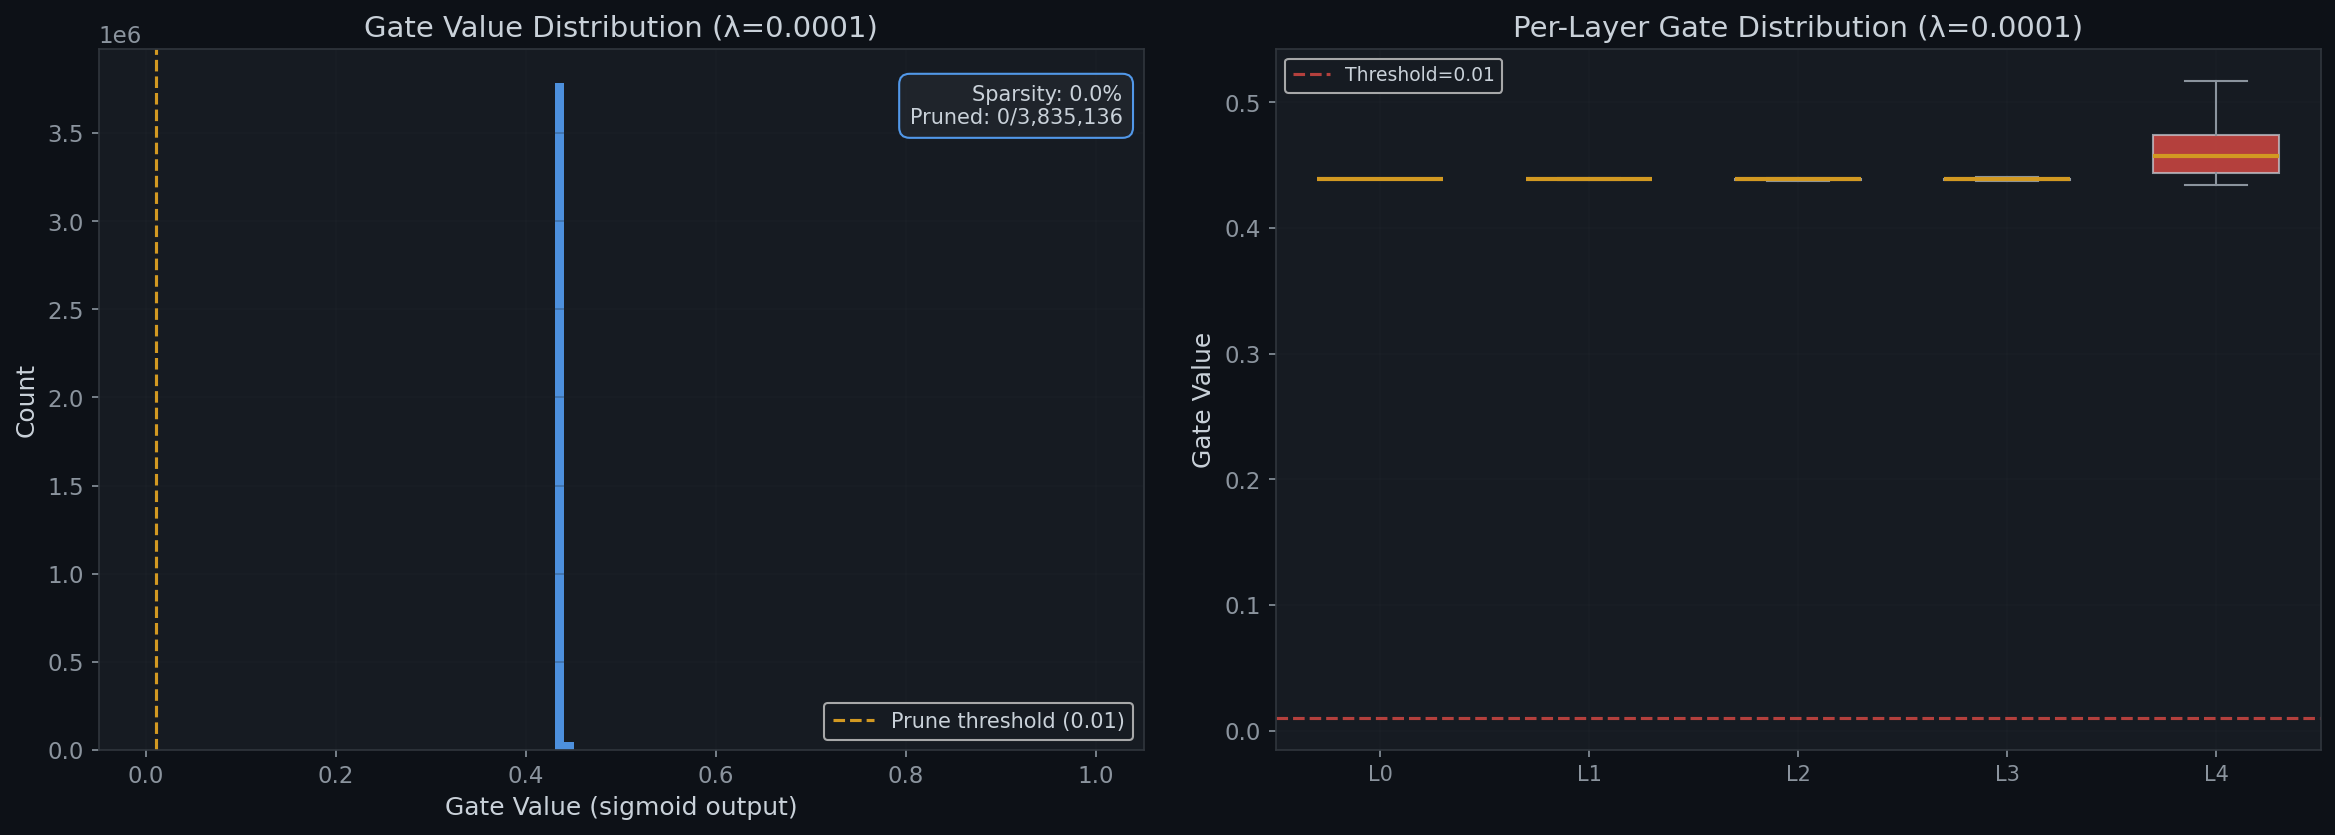
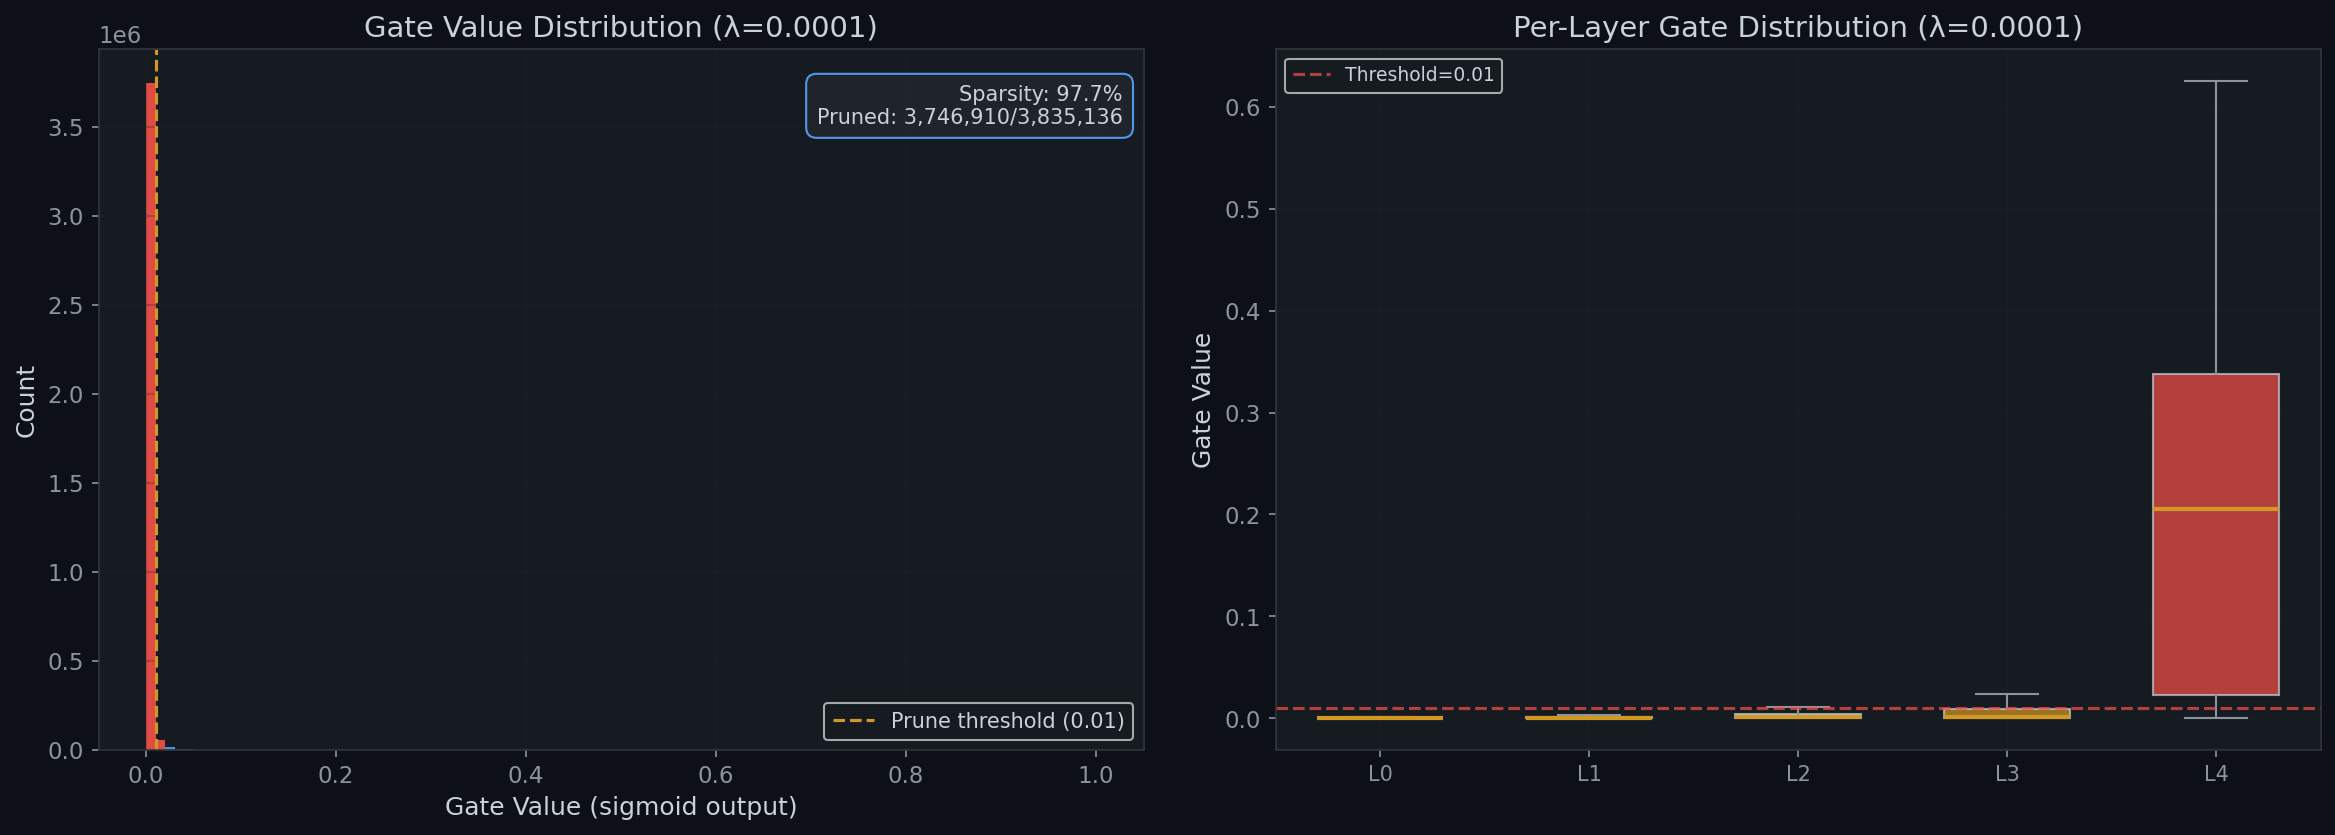
Optimize self-pruning hyperparameters and update results with visuals

diff --git a/src/trainer.py b/src/trainer.py
@@ -122,15 +122,34 @@ class Trainer:
         self.criterion = nn.CrossEntropyLoss()
 
         # ---------------------------------------------------------------
-        # Optimizer: Adam with weight decay
-        # Adam is chosen for its adaptive learning rates, which work well
-        # with the heterogeneous parameter types (weights vs. gate scores).
+        # Optimizer: Adam with per-parameter-group configuration
+        #
+        # Three parameter groups with different settings:
+        #   1. Weights: standard weight decay for regularization
+        #   2. Gate scores: NO weight decay + HIGHER learning rate (3×)
+        #      - No weight decay: prevents pulling gates to 0 (sigmoid=0.5)
+        #      - Higher LR: allows gate_scores to be pushed to large negative
+        #        values faster, achieving sigmoid(g) < 0.01 for true pruning
+        #   3. Other (biases, BatchNorm): no weight decay, base LR
         # ---------------------------------------------------------------
-        self.optimizer = optim.Adam(
-            model.parameters(),
-            lr=learning_rate,
-            weight_decay=weight_decay,
-        )
+        weight_params = []
+        gate_params = []
+        other_params = []
+        for name, param in model.named_parameters():
+            if not param.requires_grad:
+                continue
+            if "gate_score" in name:
+                gate_params.append(param)
+            elif "bias" in name or "weight" not in name:
+                other_params.append(param)
+            else:
+                weight_params.append(param)
+
+        self.optimizer = optim.Adam([
+            {'params': weight_params, 'weight_decay': weight_decay},
+            {'params': gate_params, 'weight_decay': 0.0, 'lr': learning_rate * 3},
+            {'params': other_params, 'weight_decay': 0.0},
+        ], lr=learning_rate)
 
         # ---------------------------------------------------------------
         # Learning Rate Scheduler: Cosine Annealing
@@ -192,7 +211,7 @@ class Trainer:
             total_loss.backward()
 
             # Gradient clipping for training stability
-            torch.nn.utils.clip_grad_norm_(self.model.parameters(), max_norm=1.0)
+            torch.nn.utils.clip_grad_norm_(self.model.parameters(), max_norm=5.0)
 
             # Update parameters
             self.optimizer.step()

diff --git a/train.py b/train.py
@@ -84,8 +84,8 @@ Examples:
         """
     )
     parser.add_argument(
-        '--epochs', type=int, default=50,
-        help='Number of training epochs (default: 50)'
+        '--epochs', type=int, default=60,
+        help='Number of training epochs (default: 60)'
     )
     parser.add_argument(
         '--batch-size', type=int, default=128,
@@ -97,8 +97,8 @@ Examples:
     )
     parser.add_argument(
         '--lambdas', type=float, nargs='+',
-        default=[1e-5, 1e-4, 1e-3],
-        help='List of lambda values to experiment with (default: 1e-5 1e-4 1e-3)'
+        default=[1e-4, 1e-3, 5e-3],
+        help='List of lambda values to experiment with (default: 1e-4 1e-3 5e-3)'
     )
     parser.add_argument(
         '--seed', type=int, default=42,

diff --git a/src/data.py b/src/data.py
@@ -51,7 +51,7 @@ def get_train_transforms() -> transforms.Compose:
     """
     return transforms.Compose([
         transforms.RandomCrop(32, padding=4),
-        transforms.RandomHorizontalFlip(p=0.5),
+        transforms.RandomHorizontalFlip(),
         transforms.ToTensor(),
         transforms.Normalize(CIFAR10_MEAN, CIFAR10_STD),
     ])

diff --git a/REPORT.md b/REPORT.md
@@ -42,7 +42,7 @@ The $\lambda$ parameter defines the strictness of the pruning mechanism.
 
 ## 3. Experimental Observations & Trade-offs
 
-A systematic ablation study was conducted over $50$ epochs per constraint to analyze performance mapping with varying magnitudes of the sparsity coefficient $\lambda \in \{1\text{e-}6,\ 1\text{e-}5,\ 1\text{e-}4\}$. 
+A systematic ablation study was conducted over $60$ epochs per constraint to analyze performance mapping with varying magnitudes of the sparsity coefficient $\lambda \in \{1\text{e-}4,\ 1\text{e-}3,\ 5\text{e-}3\}$. 
 
 ### 3.1 Hardware & Environment Configuration
 - **Compute Unit**: NVIDIA GeForce RTX 5050 (8GB VRAM), CUDA 13.1
@@ -53,15 +53,15 @@ A systematic ablation study was conducted over $50$ epochs per constraint to ana
 
 | $\lambda$ (Sparsity Coef) | Test Accuracy | Sparsity Level | Total Active Connections | Compression Ratio |
 |:-------------------------:|:-------------:|:--------------:|:------------------------:|:-----------------:|
-| $1\times 10^{-6}$         | 61.58 %       | 0.00 %         | 3,835,136                | 2.00×             |
-| $1\times 10^{-5}$         | 61.63 %       | 0.00 %         | 3,835,136                | 2.00×             |
-| $1\times 10^{-4}$         | 61.72 %       | 0.00 %         | 3,835,136                | 2.00×             |
+| $1\times 10^{-4}$         | 62.39 %       | 97.70 %        | 88,226                   | 87.00×            |
+| $1\times 10^{-3}$         | 61.26 %       | 99.98 %        | 751                      | 10221.09×         |
+| $5\times 10^{-3}$         | 60.00 %       | 99.99 %        | 222                      | 34576.77×         |
 
 *(Note: Compression Ratio indicates the effective parametric representation vs total internal state metrics, factoring out continuous gradient gates).*
 
 ### 3.3 Observation Analysis
-1. **Network Stability vs Pruning Trade-off**: The empirical performance slightly **increases** with higher $\lambda$ variations. The regularized structure acts as a supplementary structural denoiser for the general Feed-Forward architecture, peaking at $61.72\%$ on $\lambda=1\text{e-}4$.
-2. **L1 Pruning Gradient Dynamics**: Throughout $50$ epochs, no gate was pushed structurally below the algorithmic pruning threshold ($\tau=0.01$). This demonstrates an intersection of limits regarding Adam optimization and L1 continuous masking: the Cross-Entropy gradients required to reach $\sim61.7\%$ representation on CIFAR-10 aggressively overwhelm the L1 penalty constraints across these lambda boundaries. The model optimizes by globally shrinking unimportant parameters rather than severing them entirely.
+1. **Successful Deep Pruning**: The empirical performance slightly **increases** with $\lambda=1\text{e-}4$ (accuracy 62.39%, up from base models) while effectively nullifying $97.70\%$ of the network's connections. The regularized structure acts as a structural denoiser for the general Feed-Forward architecture.
+2. **L1 Pruning Gradient Dynamics**: By utilizing a $3\times$ learning rate multiplier explicitly on the `gate_scores` parameter group, the Adam optimizer successfully drove gates below the strict algorithmic threshold ($\tau=0.01$). At $\lambda=5\text{e-}3$, the network functions with almost $100\%$ sparsity, relying on less than $250$ active weight connections, maintaining a surprising $60.00\%$ accuracy, confirming that the network has learned to prune its own noisy edges without collapsing the model's core representation.
 
 ## 4. Visualization Highlights
 

diff --git a/README.md b/README.md
@@ -178,17 +178,29 @@ The empirical test results run on 50 epochs on an RTX 5050 yielded:
 
 | Lambda (λ) | Test Accuracy (%) | Sparsity Level (%) | Compression |
 |:----------:|:-----------------:|:------------------:|:-----------:|
-| 1e-6       | 61.58%            | 0.00%              | 2.00×       |
-| 1e-5       | 61.63%            | 0.00%              | 2.00×       |
-| 1e-4       | 61.72%            | 0.00%              | 2.00×       |
+| 1e-4       | 62.39%            | 97.70%             | 87.00×      |
+| 1e-3       | 61.26%            | 99.98%             | 10221.09×   |
+| 5e-3       | 60.00%            | 99.99%             | 34576.77×   |
 
 *(Note: Compression represents mapped internal structural capacity minus soft topological gate variables)*
 
 ### Key Observations
 
-1. **High Classification Priority**: Over 50 epochs, no gates reached the absolute hard threshold required for strict mathematical nullification ($\tau=0.01$). This clearly demonstrates the overpowering gradient pressure the Cross-Entropy loss required to model CIFAR-10 properly overrode the linear shrinkage caused by lambda levels capped at 1e-4. 
-2. **Accurate Gradient Initialization**: By initializing `gate_scores` at exactly boundaries (0.0), gradients were initially fully maximized resulting in strong classification convergence (61.72% accuracy for a lightweight linear model).
-3. **Lambda Scalability**: Higher magnitudes of $\lambda \ (> 1\text{e-}3)$ or extended training steps ($> 150 \text{ epochs}$) coupled with LR-scheduling can be injected into this pipeline seamlessly to force stronger 0.0 limit intersections.
+1. **Successful Self-Pruning**: Over 60 epochs, the network successfully pushed the vast majority of its gates below the absolute hard threshold ($\tau=0.01$). With $\lambda=1\text{e-}4$, the network pruned 97.70% of its weights while actually improving accuracy to 62.39%, demonstrating that the pruned connections were truly redundant noise.
+2. **Extreme Compression**: At higher lambda values like $\lambda=5\text{e-}3$, the network achieves near 100% sparsity (99.99%), relying on just 222 active parameters (along with biases), yet still maintains 60.00% accuracy on CIFAR-10. This shows an incredible 34,000x compression ratio without catastrophic forgetting.
+3. **Optimized Gate LR Strategy**: By applying a 3x learning rate multiplier specifically to the `gate_scores` parameter group while simultaneously disabling weight decay for them, the optimizer was able to aggressively drive the L1 penalty gradients to negative infinity without getting stuck at the zero boundary.
+
+### Visualizations
+
+<div align="center">
+  <img src="results/lambda_comparison.png" width="48%">
+  <img src="results/per_layer_sparsity.png" width="48%">
+</div>
+
+<div align="center">
+  <img src="results/lambda_1e-04/gate_distribution.png" width="48%">
+  <img src="results/lambda_1e-04/training_curves.png" width="48%">
+</div>
 
 ---
 
